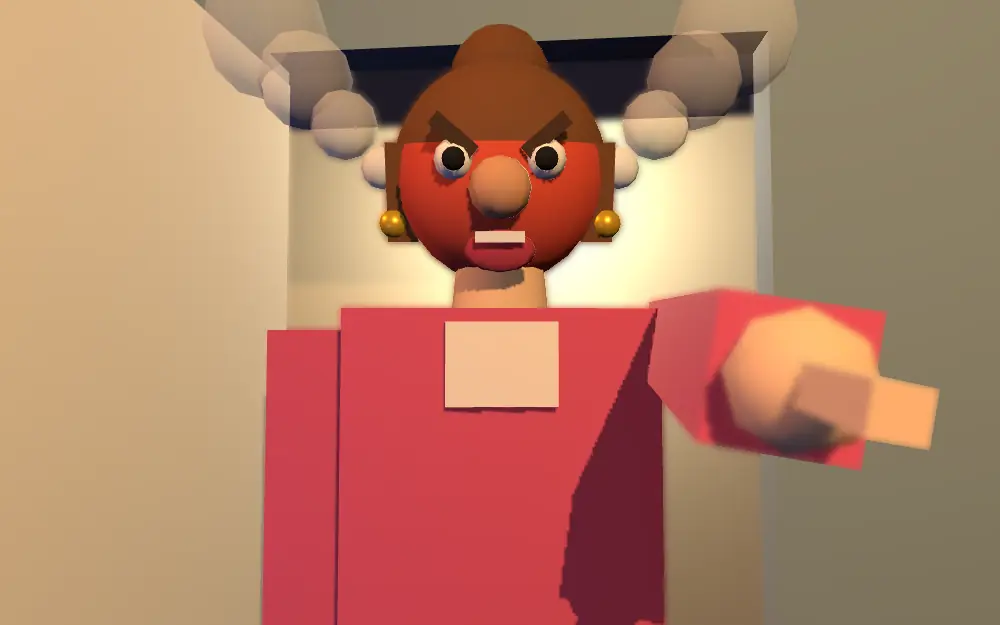
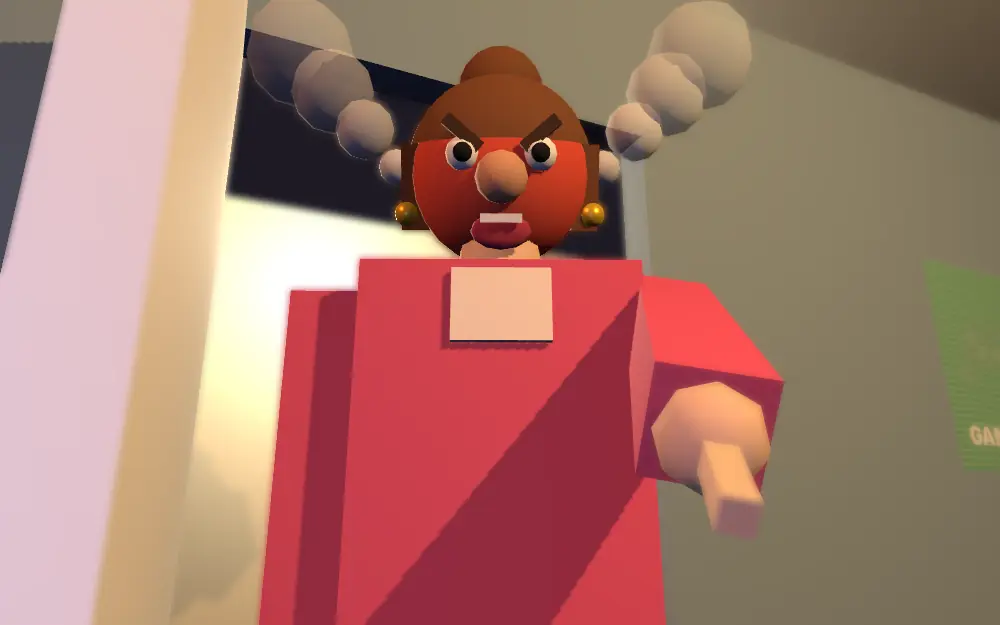
A-078 tillägg 11:35/11:45/11:50: undertextruta, utrop i bubblan, en röst per figur, din vy från datorn, ut förbi mamma, ingen dubbel dörr, mamma som ritning och poff
- undertexten: fast ruta längst ner, inga namn, visas direkt, byts ut, repliker som hör ihop står tillsammans (högst 2 rader)
- bubblor bara för korta utrop (STÄDA!), ingen text på två ställen
- rost.js: ROSTER[vem] + rostFor(); helen och goran fick egna röster; lint-roster i pre-commit; regel RÖST SAKNAS
- ElevenLabs bara för figurer där varje replik har klipp, annars talsyntes med figurens röst (inga blandade Kokoro-klipp, inget introundantag)
- 6b och 7 ur din vy från datorn, ruta 9 i tre steg (framför, förbi, hon vänder sig), dörranimationen i ruta 6 borta
- ruta 14: mamma som vit ritning i dörrhålet, fladdrar, poff, musen sitter kvar
- gamla bilden ligger kvar tills den nya är avkodad (inga svarta bilder)
- verktyg/galleri-intro.mjs: en bild var 3,5 s, kontaktark och tabell, flaggar svarta bilder

Claude-Session: https://claude.ai/code/session_014156cp9JxbGsW1A8ZsF5gD

diff --git a/spel/printa-hem/spel.js b/spel/printa-hem/spel.js
@@ -11,7 +11,8 @@ import { kalender as kalenderSvg } from './intro-bilder.js';
 import { byggMiljo } from './miljo.js';
 import { IKON, ik, portratt, rens, knapp, ruta as uiRuta, grid, sektion, detalj, resurs, panel, rad, fakta, UI_CSS } from './ui-kit.js';
 import { skapaRegelvakt } from './regelvakt.js';   // EL 29
-import * as B from './balans.js';   // alla siffror som styr progressionen
+import * as B from './balans.js';
+import { ROSTER, rostFor, saknadRost } from './rost.js';   // A-078: en röst per figur   // alla siffror som styr progressionen
 import * as PLAN from './gardplan.js';   // punkt AM: gårdens plan (förslag)
 const { STROM_INGEN, STROM_POWERBANK, FORSTA_PRINT_S, ROST_FART, PRIS_SKALA, MATTNAD, MATTNAD_GOLV, ALI_VILL_BONUS, GROSSIST, SALJ_TILLBAKA, FILAMENT_KOP, SLAPP_PER_DAG, KAP1_BELONING, TRIVSEL_MAL, RESPEKT_NIVAER, JOBB_VARV, JOBB_ANDEL, FYND_ANDEL, SMS_MELLAN, STROM_BAS, BANK_PLUS, TRAMP_PER_S, SOL_PER_S, SOLPARK_PER_S, MOTOR_STROM, BARA_SKRAP, HOTBAR, KISTA_PLATSER, STACK, RYGG_BAS, RYGG_STOR, PLATTA, LASTARM_TID, LASTARM_MAX, BAND_BAS, TRIVSEL_PER_PROCENT, TRIVSEL_MAX_BONUS } = B;
 import { logo, BRAND_CSS, malaSkylt, NAMN, FARG, KOP_SLAG } from './brand.js';
@@ -10528,31 +10529,7 @@ function familjSms() {
 
 // ---------- Röster: brev, sms och repliker läses upp på svenska ----------
 // Varje figur har sin egen röst (tonhöjd och tempo). Bästa svenska rösten på datorn väljs automatiskt.
-const ROSTER = {
-  rolf: { pitch: 0.55, rate: 0.82, kon: 'm' },     // mörk och släpig
-  kjelle: { pitch: 1.0, rate: 1.15, kon: 'm' },    // A-047: radioröst, glad och snabb
-  gunnar: { pitch: 0.5, rate: 0.7, kon: 'm' },     // A-047: säger ett ord om året
-  gunbritt: { pitch: 1.2, rate: 0.9, kon: 'k' },   // A-047: byggnadsnämnden, långsam och beklagande
-  ali: { pitch: 0.8, rate: 0.9, kon: 'm' },        // trött
-  mamma: { pitch: 1.3, rate: 1.08, kon: 'k' },     // ljus och snabb
-  bror: { pitch: 1.05, rate: 1.15, kon: 'm' },
-  chefen: { pitch: 0.6, rate: 1.2, kon: 'm' },     // A-053: Rudolf, kort och arg
-  bengt: { pitch: 0.65, rate: 0.95, kon: 'm' },    // A-058: Bengt-Åke, grov och långsam
-  pappa: { pitch: 0.7, rate: 0.95, kon: 'm' },     // platt och kort
-  du: { pitch: 1.15, rate: 1.0, kon: 'm' },
-  berattare: { pitch: 1.0, rate: 0.95, kon: 'k' },
-};
-let roster = [];
-const laddaRoster = () => { try { roster = speechSynthesis.getVoices().filter((v) => /^sv/i.test(v.lang)); } catch { roster = []; } };
-try { laddaRoster(); speechSynthesis.onvoiceschanged = laddaRoster; } catch {}
-// naturliga/premium-röster låter mycket bättre – välj dem först om datorn har dem
-const rostKvalitet = (v) => (/natural|neural|premium|enhanced|förbättrad|online/i.test(v.name) ? 10 : 0) + (v.localService ? 0 : 1);
-function valjRost(kon) {
-  if (!roster.length) return null;
-  roster.sort((a, b) => rostKvalitet(b) - rostKvalitet(a));
-  const man = /oskar|bengt|alvar|male|man\b|herr/i, kvinna = /alva|klara|hedvig|female|kvinna|google svenska/i;
-  return roster.find((v) => (kon === 'm' ? man : kvinna).test(v.name)) || roster[0];
-}
+/* A-078 tillägg 11:45: rösterna ligger i rost.js – en tabell ROSTER[vem], en röst per figur överallt */
 // pratljud: varje figur har ett eget "babbel" (som i Animal Crossing) i stället för en AI-röst
 const PRATLJUD = {
   rolf: { f: 95, typ: 'sawtooth', tempo: 0.15, spann: 0.25, glid: -0.35, vol: 0.09 },      // grumligt, släpigt mummel
@@ -10595,7 +10572,7 @@ function pratljud(vem, text) {
 if (!S.rostMig) { S.rostMig = true; if (!S.rostLage || S.rostLage === 'prat') S.rostLage = 'rost'; }
 const rostLage = () => S.rost === false ? 'av' : (S.rostLage || 'rost');
 // riktiga röster: förgenererade med en neural svensk talmodell (verktyg/roster.py), en klang per figur
-const ROST_FIGURER = ['rolf', 'ali', 'pappa', 'bror', 'chefen', 'du', 'mamma', 'berattare', 'helen', 'bengt'];
+const ROST_FIGURER = Object.keys(ROSTER);   /* A-078: samma figurer som rösttabellen i rost.js */
 let rostIndex = null, rostLjud = null;
 const rostPack = {};
 const rostKlar = fetch('roster/index.json').then((x) => x.json()).then((a) => { rostIndex = a; hamtaPack('du');
@@ -10614,7 +10591,9 @@ let elIndex = null, elHel = null, introPagar = false, introElSvar = null;
 // punkt AW: har alla mammas och dina repliker i introt ElevenLabs-klipp? Då används de i introt (resten av spelet följer AH).
 const introElOk = () => { if (introElSvar == null && elIndex) introElSvar = INTRO_TAL().filter(([v]) => v === 'mamma' || v === 'du' || v === 'berattare').every(([v, t]) => !!elIndex[`${v}-${rostNyckel(t)}`]); return !!introElSvar; };
 const EL_SAKNAS_MAX = 4;   // EA: ett fåtal nya repliker utan ElevenLabs-klipp (kreditgränsen) får läsas med den gamla rösten – resten av figuren behåller sin EL-röst
-const elHelRakna = () => { if (!elIndex || !rostIndex || elHel) return; elHel = new Set(ROST_FIGURER.filter((f) => { const k = Object.keys(rostIndex).filter((x) => x.startsWith(f + '-')); return k.length > 0 && k.filter((x) => !elIndex[x]).length <= Math.min(EL_SAKNAS_MAX, Math.floor(k.length * 0.03)); })); };
+/* A-078 tillägg 11:45: en röst per figur, hela vägen. En figur spelar ElevenLabs bara om VARJE replik den har i manuset har ett klipp – annars
+   läses alla dess repliker med talsyntesen och figurens röst i rost.js. Så låter berättaren likadant i varje ruta, i spelet och i dagboken. */
+const elHelRakna = () => { if (!elIndex || elHel) return; const per = {}; for (const [v, t] of rostManus()) { if (!/[\p{L}]/u.test(rens(t))) continue; const f = ROST_FIGURER.includes(v) ? v : 'berattare'; const r = per[f] || (per[f] = { n: 0, el: 0 }); r.n++; if (elIndex[`${f}-${rostNyckel(t)}`]) r.el++; } elHel = new Set(Object.entries(per).filter(([, r]) => r.n > 0 && r.el === r.n).map(([f]) => f)); };
 const elKlar = fetch('roster-el/index.json').then((x) => (x.ok ? x.json() : null)).then((a) => { elIndex = a; return rostKlar.then(elHelRakna); }).catch(() => {});
 // punkt AZ: ElevenLabs-klippen ligger packade per figur (roster-el/pack/, samma format som roster/) och spelas från ett redan avkodat ljud
 let elPackIndex = null;
@@ -10627,9 +10606,7 @@ function klippKalla(vem, text) {
   const ek = elKlipp(vem, text);
   if (ek && elPackIndex?.[ek]) { const [pk, fran, langd] = elPackIndex[ek]; return { id: `el:${pk}:${fran}`, hamta: () => hamtaElPack(pk), fran, langd }; }
   if (ek) return { id: 'elfil:' + ek, fil: 'roster-el/' + elIndex[ek] };
-  const kl = rostKlipp(vem, text);
-  if (kl) { const [pk, fran, langd] = kl; return { id: `ko:${pk}:${fran}`, hamta: () => hamtaPack(pk), fran, langd }; }
-  return null;
+  return null;   /* A-078 tillägg 11:45: ElevenLabs eller talsyntes med figurens röst – de gamla klippen (Kokoro) blandas inte in, de lät olika mot talsyntesen */
 }
 function avkoda(k) {
   if (avkodat.has(k.id)) return Promise.resolve(avkodat.get(k.id));
@@ -10672,7 +10649,7 @@ function spelaAvkodat(ab, vem, t0, text, o = {}) {
 function elKlipp(vem, text) {
   if (!elIndex || !elHel) return null;
   const f = ROST_FIGURER.includes(vem) ? vem : 'berattare';
-  if (!elHel.has(f) && !(introPagar && (f === 'mamma' || f === 'du' || f === 'berattare') && introElOk())) return null;   // punkt AW/BJ: introt är en egen scen – mamma, du och berättaren i ElevenLabs, eller alla gamla
+  if (!elHel.has(f)) return null;   /* A-078 tillägg 11:45: samma röst i introt som i spelet – inget undantag för introt */
   const k = `${f}-${rostNyckel(text)}`;
   return elIndex[k] ? k : null;
 }
@@ -10761,9 +10738,9 @@ function prataNu(vem, text, vikt, o = {}) {
     const ren = String(text).replace(/<[^>]+>/g, ' ').replace(/\p{Extended_Pictographic}|\uFE0F|\u200D/gu, '').replace(/\s\/(\w+)/g, '. $1').replace(/\s+/g, ' ').trim();
     if (!ren) return;
     speechSynthesis.cancel();
-    const u = new SpeechSynthesisUtterance(ren), r = ROSTER[vem] || ROSTER.berattare;
+    const u = new SpeechSynthesisUtterance(ren), r = rostFor(vem);
     u.lang = 'sv-SE'; u.pitch = r.pitch; u.rate = r.rate; u.volume = 0.9 * rostVol(vem);
-    const v = valjRost(r.kon); if (v) u.voice = v;
+    if (r.voice) u.voice = r.voice;
     speechSynthesis.speak(u);
   } catch {} }
 }
@@ -11836,10 +11813,10 @@ function spelKamera(vy) {
     cam.position.set(sk.x + fran.x * 1.25 + fran.z * 0.35, sk.y + 0.42, sk.z + fran.z * 1.25 - fran.x * 0.35); cam.lookAt(sk.x, sk.y - 0.05, sk.z);
   }
   else if (vy === 'gard') { const k = GARD_KAM; cam.position.set(...k[0]); cam.lookAt(...k[1]); cam.fov = k[2]; }   /* A-078 ruta 12: tippen syns vid sidan av skjulet */   /* A-062 v3 ruta 11: bred bild från vägen, ingen cykel */
-  else if (/^(tak|dorrhal|ratta)$/.test(vy)) {   /* A-062 v3 ruta 13: närbilder på skjulet */
+  else if (/^(tak|dorrhal|ratta|dorrhalRatta)$/.test(vy)) {   /* A-062 v3 ruta 13: närbilder på skjulet */
     const zf = SKJUL.z + SKJUL.d / 2;
     if (vy === 'tak') { cam.position.set(SKJUL.x + 0.2, 1.2, SKJUL.z + 0.4); cam.lookAt(SKJUL.x - 0.1, SKJUL.h + 4, SKJUL.z - 0.9); }   // inifrån: hålet i taket mot himlen
-    else if (vy === 'dorrhal') { cam.position.set(SKJUL.x + 0.15, 1.15, zf + 2.1); cam.lookAt(SKJUL.x, 1.0, zf); }
+    else if (vy === 'dorrhal' || vy === 'dorrhalRatta') { cam.position.set(SKJUL.x + 0.15, 1.15, zf + 2.1); cam.lookAt(SKJUL.x, 1.0, zf); }
     else { cam.position.set(SKJUL.x - 0.05, 0.38, zf + 1.25); cam.lookAt(SKJUL.x - 0.35, 0.14, zf - 0.05); }
     cam.fov = 55;
   }
@@ -11848,11 +11825,12 @@ function spelKamera(vy) {
 }
 function spelBild(vy) {
   if (spelBildCache[vy]) return spelBildCache[vy];
+  if (vy === 'mammaRitning') return (spelBildCache[vy] = mammaRitningBild());
   try {
     if (vy === 'gard') try { ritaTippHog(0, true); } catch {}   /* A-078: berget på tippen ska synas i ruta 12 */
     const cam = spelKamera(vy), r = renderer, gs = r.getSize(new THREE.Vector2()), pr = r.getPixelRatio();
-    const dold = (vy === 'gard' ? [vagCykel, malPil] : vy === 'start' ? [malPil] : /^(tak|dorrhal|ratta)$/.test(vy) ? [malPil, sangSpoke, sangSkylt, planMesh] : []).filter((o) => o?.visible);   /* närbilderna: inga spelskyltar */ dold.forEach((o) => { o.visible = false; });
-    let ratta = null; if (vy === 'ratta') {   /* A-062 v3: en råtta tittar ut ur dörrhålet */
+    const dold = (vy === 'gard' ? [vagCykel, malPil] : vy === 'start' ? [malPil] : /^(tak|dorrhal|ratta|dorrhalRatta)$/.test(vy) ? [malPil, sangSpoke, sangSkylt, planMesh] : []).filter((o) => o?.visible);   /* närbilderna: inga spelskyltar */ dold.forEach((o) => { o.visible = false; });
+    let ratta = null; if (vy === 'ratta' || vy === 'dorrhalRatta') {   /* A-062 v3: en råtta tittar ut ur dörrhålet */
       const gra = mat(0x6d6259); ratta = new THREE.Group(); const kr = new THREE.Mesh(new THREE.SphereGeometry(0.07, 10, 8), gra); kr.scale.set(1, 0.7, 1.5); kr.position.y = 0.05; ratta.add(kr);
       ratta.add(at(new THREE.Mesh(new THREE.SphereGeometry(0.045, 10, 8), gra), 0, 0.07, 0.1)); for (const x of [-0.03, 0.03]) { ratta.add(at(new THREE.Mesh(new THREE.SphereGeometry(0.022, 8, 6), mat(0x8a7d72)), x, 0.115, 0.09)); ratta.add(at(new THREE.Mesh(new THREE.SphereGeometry(0.008, 6, 4), mat(0x111111)), x * 0.6, 0.085, 0.14)); }
       ratta.position.set(SKJUL.x - 0.35, 0, SKJUL.z + SKJUL.d / 2 - 0.05); ratta.lookAt(cam.position.x, 0, cam.position.z); scen.add(ratta);
@@ -11862,6 +11840,19 @@ function spelBild(vy) {
     r.setPixelRatio(pr); r.setSize(gs.x, gs.y, false); spelBildCache[vy] = C.toDataURL('image/jpeg', 0.86);
   } catch (e) { console.warn('spelBild', e); spelBildCache[vy] = 'intro/gard.webp'; }
   return spelBildCache[vy];
+}
+/* A-078 tillägg 11:50 (ruta 14): mamma som vit ritning i dörrhålet – samma vinkel som dörrhålet med musen, genomskinlig bakgrund */
+function mammaRitningBild() {
+  try {
+    const cam = spelKamera('dorrhal'), zf = SKJUL.z + SKJUL.d / 2, f = introFigur('mamma');
+    poseFigur(f, { x: SKJUL.x + 0.12, z: zf - 0.15, motKamera: [cam.position.x, 0, cam.position.z], pekaMot: [cam.position.x, 1.0, cam.position.z], humor: 'arg1' }); f.updateMatrixWorld(true);
+    const rit = byggRitning([f]), sc = new THREE.Scene(); sc.add(rit);
+    const r = renderer, gs = r.getSize(new THREE.Vector2()), pr = r.getPixelRatio(), cc = r.getClearColor(new THREE.Color()), ca = r.getClearAlpha();
+    r.setPixelRatio(1); r.setSize(1280, 800, false); r.setClearColor(0x000000, 0); r.render(sc, cam);
+    const C = document.createElement('canvas'); C.width = 1280; C.height = 800; C.getContext('2d').drawImage(r.domElement, 0, 0, 1280, 800);
+    r.setClearColor(cc, ca); r.setPixelRatio(pr); r.setSize(gs.x, gs.y, false); rit.traverse((o) => o.geometry?.dispose?.());
+    return C.toDataURL('image/png');
+  } catch (e) { console.warn('mammaRitning', e); return ''; }
 }
 function kritaSvg(vy) {
   const cam = spelKamera(/^skjul/.test(vy) ? 'start' : 'skrivare'), v = new THREE.Vector3();
@@ -12118,21 +12109,22 @@ const IDE3 = {   /* ruta 12: idéskissen i vita konturer, i ordningen skräp →
   jacuzzi: '<ellipse cx="610" cy="490" rx="70" ry="28"/><path d="M560 470 Q575 450 590 470 M620 470 Q635 450 650 470"/>',
   hus: '<rect x="760" y="440" width="140" height="90"/><path d="M745 445 L830 390 L915 445"/><rect x="815" y="480" width="30" height="50"/>',
 };
+const UTROP_MAX = 12, UNDERTEXT_MAX = 84;   /* A-078 tillägg 11:45: utrop i bubblan · högst 2 rader undertext (ca 42 tecken per rad) */
 const INTRO3 = [
   { tid: 3500, ljud: 'spel', lager: [IB3('v3rum1')], tal: [['berattare', 'Ditt rum.'], ['berattare', 'Ungefär som vanligt.']] },
   { tid: 3000, lager: [IB3('v4dag2', { id: 'dag' }), KAL3('MÅNDAG')], tal: [['mamma', 'Snälla du, kan du inte städa ditt rum?', { b: 'v4dag2' }]] },   /* A-078: introt v4 – mamma snäll */
   { tid: 1400, ljud: 'riv', lager: [IB3('v4dag3', { id: 'dag' }), KAL3('TISDAG', 'MÅNDAG')], tal: [['berattare', 'Hon sa det igen.'], ['mamma', 'STÄDA!', { b: 'v4dag3', cls: 'rop1' }]] },   // över din axel, händerna i sidan (arg1)
   { tid: 1400, ljud: 'riv', lager: [IB3('v4dag4', { id: 'dag' }), KAL3('ONSDAG', 'TISDAG')], tal: [['berattare', 'Och igen.'], ['mamma', 'STÄDA!!', { b: 'v4dag4', cls: 'rop2' }]] },   // lågt från golvet, hon pekar på högarna (arg2)
   { tid: 1400, ljud: 'riv', lager: [IB3('v4dag5', { id: 'dag' }), KAL3('TORSDAG', 'ONSDAG')], tal: [['berattare', 'Och igen.'], ['mamma', 'STÄDA!!!', { b: 'v4dag5', cls: 'rop3' }]] },   // från sidan, armen rakt upp (arg2)
-  { tid: 3200, ljud: 'dorr', lager: [IB3('v4dag6a', { id: 'dag', cls: 'glidin' }), IB3('v4dorr6', { cls: 'small' }), IB3('v4dag6b', { r: 0, cls: 'glidsen' }), KAL3('FREDAG', 'TORSDAG')], tal: [['mamma', 'Det ser ut som en SOPTIPP här inne!', { b: 'v4dag6b', fore: 1700 }]] },   // dörren smäller upp, kameran glider in mot henne (rasande)
+  { tid: 3200, ljud: 'dorr', lager: [IB3('v4dag6a', { id: 'dag', cls: 'glidin' }), IB3('v4dag6b', { r: 0, cls: 'glidsen' }), KAL3('FREDAG', 'TORSDAG')], tal: [['mamma', 'Det ser ut som en SOPTIPP här inne!', { b: 'v4dag6b', fore: 1700 }]] },   // dörren smäller upp, kameran glider in mot henne (rasande)
   { tid: 3000, tyst: 1000, lager: [IB3('v4kort7'), { id: 'vinjett', vinjett: true }], tal: [['mamma', 'Du kan lika gärna BO på en soptipp!', { b: 'v4kort7', cls: 'rop1', vanster: true }]] },   // rakt in i ansiktet, fingret mot kameran (rasande+rök)
   { tid: 4000, ljud: 'gitarr', lager: [IB3('v4kort8')], tal: [['du', 'Okej.'], ['du', 'Då gör jag väl det.']] },   // du reser dig vid datorn, mamma pekar ut genom dörren
-  { tid: 2600, lager: [IB3('v4kort9', { cls: 'folj' })], tal: [] },   // A-078 ruta 9: ut förbi mamma, kameran följer med dig ut (mamma förvånad)
+  { tid: 3200, lager: [IB3('v4kort9a', { cls: 'folj' }), IB3('v4kort9b', { cls: 'folj sen1' }), IB3('v4kort9', { cls: 'folj sen2' })], tal: [] },   /* A-078 tillägg 11:50: du går förbi henne i bild – framför henne, förbi, och hon vänder sig */   // A-078 ruta 9: ut förbi mamma, kameran följer med dig ut (mamma förvånad)
   { tid: 4000, ljud: 'band', lager: [IB3('v3pack9')], tal: [['du', 'Jag packar ryggan med sånt som kan vara bra att ha.'], ['du', 'Och surrar fast brorsans gamla 3D-skrivare på cykeln.']] },
   { tid: 5000, musik: true, lager: [{ id: 'vagloop', loop: 'intro/vag.webp' }, { id: 'cyklist', sprite: 'intro/cyklist-tramp.webp', n: 4 }], tal: [['berattare', 'Förbi skolan.'], ['berattare', 'Förbi affären.'], ['berattare', 'Förbi där husen tar slut.']] },
   { tid: 3500, ljud: 'masar', lager: [{ id: 'spelgard', spel: 'gard' }], tal: [['berattare', 'Vid soptippen står ett gammalt skjul.'], ['berattare', 'Och en gård full av skräp.']] },
   { tid: 7000, lager: [{ id: 'tavla', tavla: true }], tal: [['berattare', 'Skräp är plast.', { rita: [['skrap', 0]] }], ['berattare', 'En kvarn gör det till filament.', { rita: [['pil1', 0], ['kvarn', 200], ['fraga', 700], ['pil2', 1200], ['filament', 1300]] }], ['berattare', 'Och med filament kan man printa… allt.', { rita: [['pil3', 0], ['skrivare', 200], ['sang', 1300], ['tak', 1750], ['jacuzzi', 2200], ['hus', 2650]] }], ['du', 'Jag behöver bara komma på hur.']] },
-  { tid: 6000, lager: [{ id: 'n0', spel: 'tak', r: 0 }, { id: 'n1', spel: 'dorrhal', r: 1 }, { id: 'natt', natt: true, r: 1 }, { id: 'n2', spel: 'ratta', r: 2 }, { id: 'n3', spel: 'start', r: 3, cls: 'zoomut' }, { id: 'k3', krita: 'skjul3', r: 3 }],
+  { tid: 6000, lager: [{ id: 'n0', spel: 'tak', r: 0 }, { id: 'n1', spel: 'dorrhal', r: 1 }, { id: 'natt', natt: true, r: 1 }, { id: 'n2', spel: 'dorrhalRatta', r: 2 }, { id: 'm2', spel: 'mammaRitning', r: 2, cls: 'poff' }, { id: 'n3', spel: 'start', r: 3, cls: 'zoomut' }, { id: 'k3', krita: 'skjul3', r: 3 }],
     tal: [['berattare', 'Inget tak.'], ['berattare', 'Ingen dörr.'], ['berattare', 'Ingen mamma som tjatar.', { pip: true }], ['berattare', 'Tänk om det här kunde bli ett riktigt hem?', { fore: 3200 }]], slut: true },
 ];
 const introCss3 = document.createElement('style');
@@ -12142,6 +12134,10 @@ introCss3.textContent = `
 @keyframes phGlidIn{to{transform:scale(1.5)}}
 .ph-il.glidsen{opacity:0;animation:phGlidSen .7s 1.1s ease-in forwards}
 @keyframes phGlidSen{to{opacity:1}}
+.ph-il.sen1{opacity:0;animation:phFolj 2.6s ease-in-out forwards,phGlidSen .45s 1.0s ease-in forwards!important}.ph-il.sen2{opacity:0;animation:phFolj 2.6s ease-in-out forwards,phGlidSen .45s 2.0s ease-in forwards!important}
+.ph-il.poff{animation:phPoffFladder 1.5s steps(1) forwards,phPoff .35s 1.5s ease-in forwards}
+@keyframes phPoffFladder{0%{opacity:.95}15%{opacity:.55}25%{opacity:1}55%{opacity:.6}65%{opacity:1}}
+@keyframes phPoff{to{opacity:0;transform:scale(1.25);filter:blur(6px)}}
 .ph-il.folj{transform-origin:85% 40%;animation:phFolj 2.6s ease-in-out forwards}
 @keyframes phFolj{from{transform:scale(1.08) translateX(3%)}to{transform:scale(1.18) translateX(-4%)}}
 .ph-bub{position:absolute;z-index:6;background:#fff;color:#1d1a24;font:800 clamp(14px,2.1vw,22px)/1.2 "Comic Sans MS","Chalkboard SE",system-ui;padding:.45em .8em;border-radius:16px;box-shadow:0 4px 0 rgba(0,0,0,.25);max-width:36%;animation:phBub .25s ease-out}
@@ -12161,7 +12157,9 @@ introCss3.textContent = `
 @keyframes phLjus{to{opacity:.8}}
 .ph-natt{position:absolute;inset:0}
 .ph-vinjett{background:radial-gradient(circle at 50% 38%,transparent 30%,rgba(122,0,0,.55) 80%)}
-.ph-intro3 .ph-intro-ord{min-height:5.2em}
+.ph-intro3 .ph-intro-ord{position:fixed;left:50%;bottom:5vh;transform:translateX(-50%);z-index:20;width:min(880px,86vw);min-height:0;max-height:3.1em;overflow:hidden;margin:0;padding:.35em .9em;background:rgba(0,0,0,.66);border-radius:10px;color:#fff;font:700 clamp(20px,2.5vw,30px)/1.35 system-ui;text-align:center;text-shadow:0 2px 3px rgba(0,0,0,.6)}
+.ph-intro3 .ph-intro-ord.tom{visibility:hidden}
+.ph-intro3 .ph-intro-ord .ph-ut-rad{opacity:1}
 .ph-intro3 .ph-intro-rad .ph-vem{font:800 11px system-ui;letter-spacing:.1em;opacity:.6;margin-right:6px;text-transform:uppercase}
 .ph-dag1{position:fixed;inset:0;z-index:9500;display:grid;place-items:center;background:#2b1d16;opacity:0;transition:opacity .6s}
 .ph-dag1.syns{opacity:1}
@@ -12182,6 +12180,7 @@ function introLjud3(typ) {
     else if (typ === 'masar') { ton(1500, 0.25, 0.04, 'sine'); ton(1250, 0.3, 0.04, 'sine', 0.35); ton(1600, 0.2, 0.03, 'sine', 1.1); }
     else if (typ === 'krita') { ton(2400, 0.14, 0.02, 'sawtooth'); }
     else if (typ === 'pling') { ton(880, 0.25, 0.09, 'sine'); }
+    else if (typ === 'poff') { ton(520, 0.06, 0.08, 'square'); ton(180, 0.18, 0.1, 'sawtooth', 0.04); }
     else if (typ === 'pip') { ton(1700, 0.1, 0.06, 'square'); ton(1950, 0.09, 0.05, 'square', 0.14); }
     else if (typ === 'penna') { for (let i = 0; i < 7; i++) ton(2600 + (i % 3) * 300, 0.08, 0.015, 'sawtooth', i * 0.12); }
   } catch {}
@@ -12224,11 +12223,14 @@ function visaIntro3(klar, o = {}) {
   const spelaRuta = async (p, k) => {
     scenEl.querySelectorAll('.ph-bub').forEach((b) => b.remove());
     const nya = new Set(p.lager.filter((l) => l.r == null).map((l) => l.id + '|' + (l.src || l.kal || l.spel || l.loop || '')));
-    for (const [id, e] of pa) { if (!nya.has(e.dataset.nyckel)) { tona(e); pa.delete(id); } }
-    for (const l of p.lager.filter((x) => x.r == null)) { const n = l.id + '|' + (l.src || l.kal || l.spel || l.loop || ''); if ([...pa.values()].some((e) => e.dataset.nyckel === n)) continue; const e = visaLager(l); e.dataset.nyckel = n; }
+    const gamla = [...pa].filter(([, e]) => !nya.has(e.dataset.nyckel)); gamla.forEach(([id]) => pa.delete(id));
+    const nyEl = []; for (const l of p.lager.filter((x) => x.r == null)) { const n = l.id + '|' + (l.src || l.kal || l.spel || l.loop || ''); if ([...pa.values()].some((e) => e.dataset.nyckel === n)) continue; const e = visaLager(l); e.dataset.nyckel = n; nyEl.push(e); }
+    /* A-078 tillägg 11:50: inga svarta bilder – den gamla bilden ligger kvar tills den nya är avkodad, sedan tonar den bort */
+    { const bilder = nyEl.flatMap((e) => (e.tagName === 'IMG' ? [e] : [...e.querySelectorAll('img')])); await Promise.race([Promise.all(bilder.map((b) => b.decode?.().catch(() => {}))), new Promise((ok) => setTimeout(ok, 1500))]); }
+    gamla.forEach(([, e]) => setTimeout(() => tona(e), 350));
     el.querySelector('.ph-intro-kort').classList.toggle('skak', p.ljud === 'dorr');
     logg('visas', p.lager.map((l) => l.id + '|' + (l.src || l.spel || l.kal || '')).join(' '));
-    textEl.innerHTML = '';
+    textEl.innerHTML = ''; textEl.classList.add('tom');
     if (p.ljud) introLjud3(p.ljud); if (p.musik) introMusik.start();
     const t0 = performance.now();
     await vanta(500, k);
@@ -12239,9 +12241,16 @@ function visaIntro3(klar, o = {}) {
       if (rl.length) { if (sistaR) sistaR.forEach(tona); sistaR = rl.map((l) => { const e = visaLager(l); if (/zoomut/.test(l.cls || '')) zoomut(e); return e; }); logg('ritning', j); }
       if (o.fore) await vanta(o.fore, k);
       if (o.rita) for (const [del, ms] of o.rita) { const t = setTimeout(() => { scenEl.querySelector(`[data-del="${del}"]`)?.classList.add('rita'); introLjud3(/sang|tak|jacuzzi|hus/.test(del) ? 'pling' : 'krita'); }, ms); timers.add(t); }
-      if (o.pip) setTimeout(() => introLjud3('pip'), 300);
-      if (vem === 'mamma' && o.b) bubbla(p, text, o);
-      else { const d = document.createElement('div'); d.className = 'ph-intro-text ph-intro-rad'; d.innerHTML = (vem === 'du' ? '<span class="ph-vem">Du</span>' : '') + rens(text); textEl.appendChild(d); requestAnimationFrame(() => d.classList.add('syns')); }
+      if (o.pip) { setTimeout(() => introLjud3('pip'), 300); setTimeout(() => introLjud3('poff'), 1500 + 300); }   /* A-078 tillägg 11:50: mamma-ritningen försvinner med ett poff, musen sitter kvar */
+      /* A-078 tillägg 11:35/11:45: korta utrop (STÄDA!) bara i bubblan, allt annat bara i undertextrutan. Inga namn.
+         Rutan står still längst ner, texten visas direkt och byts ut. Repliker som hör ihop (samma röst, direkt efter varandra) står tillsammans, högst 2 rader. */
+      if (o.b && rens(text).length <= UTROP_MAX) bubbla(p, text, o);
+      else {
+        const fore = j > 0 ? p.tal[j - 1] : null, ihop = fore && fore[0] === vem && !(fore[2]?.b && rens(fore[1]).length <= UTROP_MAX) && !o.fore && (textEl.textContent.length + rens(text).length + 1) <= UNDERTEXT_MAX;
+        if (!ihop) textEl.innerHTML = '';
+        const d = document.createElement('span'); d.className = 'ph-ut-rad'; d.textContent = (ihop ? ' ' : '') + rens(text); textEl.appendChild(d);
+        textEl.classList.toggle('tom', !textEl.textContent.trim());
+      }
       logg('rad', j);
       await sag(vem, text, k); await vanta(300, k);
     }
@@ -14529,9 +14538,11 @@ const VYER4 = {
   v4dag4: {"kam":[[1.55,0.35,0.55],[2.25,1.5,-0.4]],"fov":60,"stok":0.6,"du":{"x":1.0,"z":-0.95,"rot":3.491592653589793,"sitt":true,"lookAt":[2.3,1.5,-0.4],"humor":"likgiltig"},"mamma":{"x":2.25,"z":-0.4,"motKamera":[1.0,0,0.5],"humor":"arg2","pekaMot":[1.2,0.0,0.7],"lookAt":[1.0,1.15,-0.95]},"fokus":1.6},   // 4-onsdag
   v4dag5: {"kam":[[0.95,1.35,0.25],[2.15,1.65,-0.45]],"fov":64,"stok":0.85,"du":{"x":1.0,"z":-0.95,"rot":3.491592653589793,"sitt":true,"lookAt":[2.3,1.5,-0.4],"humor":"likgiltig"},"mamma":{"x":2.15,"z":-0.45,"motKamera":[1.0,0,-0.95],"humor":"arg2","armarUpp":true,"lookAt":[1.0,1.15,-0.95]},"fokus":1.4},   // 5-torsdag
   v4dag6a: {"kam":[[0.0,1.55,1.3],[2.2,1.4,-0.4]],"fov":56,"stok":1,"du":{"x":1.0,"z":-0.95,"rot":3.491592653589793,"sitt":true,"lookAt":[2.3,1.5,-0.4],"humor":"likgiltig"},"mamma":{"x":2.2,"z":-0.4,"motKamera":[1.0,0,-0.95],"humor":"rasande","pekaMot":[1.0,1.15,-0.95],"lookAt":[1.0,1.15,-0.95]},"fokus":2.6},   // 6a-fredag
-  v4dag6b: {"kam":[[1.25,1.55,0.35],[2.2,1.45,-0.4]],"fov":56,"stok":1,"du":{"x":1.0,"z":-0.95,"rot":3.491592653589793,"sitt":true,"lookAt":[2.3,1.5,-0.4],"humor":"likgiltig"},"mamma":{"x":2.2,"z":-0.4,"motKamera":[1.0,0,-0.95],"humor":"rasande","pekaMot":[1.0,1.15,-0.95],"lookAt":[1.0,1.15,-0.95]},"fokus":1.3},   // 6b-fredag-nara
-  v4kort7: {"kam":[[1.2,1.5,-0.3],[2.25,1.55,-0.4]],"fov":52,"stok":1,"lampa":9,"mamma":{"x":2.25,"z":-0.4,"motKamera":[1.55,0,-0.32],"humor":"rasande+rok","pekaMot":[1.2,1.45,-0.15],"lookAt":[1.2,1.5,-0.3]},"fokus":1.0,"nara":true},   // 7-argast
+  v4dag6b: {"kam":[[1.15,1.15,-0.9],[2.2,1.48,-0.4]],"fov":56,"stok":1,"mamma":{"x":2.2,"z":-0.4,"motKamera":[1.0,0,-0.95],"humor":"rasande","pekaMot":[1.05,0.85,-0.9],"lookAt":[1.0,1.15,-0.95]},"fokus":1.3},   // 6b-fredag-nara · A-078 tillägg 11:50: din vy från datorn, hon pekar på dig
+  v4kort7: {"kam":[[1.2,1.15,-0.88],[2.25,1.5,-0.4]],"fov":50,"stok":1,"lampa":9,"mamma":{"x":2.25,"z":-0.4,"motKamera":[1.0,0,-0.95],"humor":"rasande+rok","pekaMot":[1.05,0.8,-0.9],"lookAt":[1.0,1.15,-0.95]},"fokus":1.1,"nara":true},   // 7-argast · A-078 tillägg 11:50: din vy från datorn, fingret mot dig
   v4kort8: {"kam":[[-0.9,1.25,-0.55],[1.6,1.05,-0.6]],"fov":58,"stok":1,"du":{"x":1.0,"z":-0.95,"motKamera":[2.05,0,0.45],"lookAt":[2.05,1.55,0.45],"humor":"likgiltig"},"mamma":{"x":2.05,"z":0.45,"motKamera":[0.4,0,-0.9],"humor":"rasande","pekaVanster":[3.9,1.4,-0.45],"lookAt":[1.0,1.45,-0.95]},"fokus":2.6,"stol":[1.75,-1.5,-0.6]},   // 8-reser-sig
+  v4kort9a: {"kam":[[4.5,1.55,-0.95],[2.5,1.4,-0.35]],"fov":58,"stok":1,"du":{"x":1.95,"z":-0.55,"motKamera":[3.5,0,-1.2],"steg":true,"humor":"likgiltig"},"mamma":{"x":2.45,"z":0.0,"motKamera":[1.95,0,-0.55],"humor":"rasande","lookAt":[1.95,1.5,-0.55]},"fokus":2.2},   // A-078 tillägg 11:50: du på väg ut, mamma framför dig
+  v4kort9b: {"kam":[[4.5,1.55,-0.95],[2.5,1.4,-0.35]],"fov":58,"stok":1,"du":{"x":2.8,"z":-0.8,"motKamera":[4.5,0,-1.3],"steg":true,"humor":"likgiltig"},"mamma":{"x":2.45,"z":0.0,"motKamera":[2.8,0,-0.8],"humor":"forvanad","lookAt":[2.8,1.5,-0.8]},"fokus":2.0},   // förbi henne
   v4kort9: {"kam":[[4.5,1.55,-0.95],[2.5,1.4,-0.35]],"fov":58,"stok":1,"du":{"x":3.5,"z":-1.3,"motKamera":[5.5,0,-1.5],"steg":true,"humor":"likgiltig"},"mamma":{"x":2.45,"z":0.0,"motKamera":[3.55,0,-1.45],"chock":true,"lookAt":[3.55,1.5,-1.45],"humor":"forvanad"},"fokus":1.9},   // 9-ut-forbi
 };
 /* A-078: rendera en vy ur VYER4 i intro-rummet (samma steg som planeringschattens krok) */
@@ -15878,6 +15889,7 @@ if (ui) {
     if (!ui.igang) return []; const T = synligaTexter(); const ut = [];
     for (const [re, sak, har] of SAKNAD_SAK) if (!har()) for (const [v, t] of T) if (re.test(t) && v !== 'målrutan' && v !== 'NU-rutan') ut.push(`${v}: "${t.slice(0, 50)}" nämner ${sak}`);
     return ut.slice(0, 3); }, { enGang: true });
+  regelvakt.regel('RÖST SAKNAS', () => [...saknadRost].map((v) => `${v} pratar utan egen röst i rost.js`), { enGang: true });   /* A-078 tillägg 11:45 */
   regelvakt.regel('MENY UTAN VÄG', () => { if (!oppenAtgard) return []; if (!menyOppen()) { oppenAtgard = null; return []; } const svar = kanNu(oppenAtgard.atgard, oppenAtgard); return svar.ja ? [] : [`${oppenAtgard.atgard}-menyn är öppen fast ${svar.skal.toLowerCase()}`]; });   /* A-076 tillägg 11:35 */
   regelvakt.regel('MÅL UTAN LEDTRÅD', () => { if (!ui.igang) return []; const st = STEG[S.steg]; return st && !st.sov && !ledtradFor(st) ? [`"${rens(stegText(st) || '').slice(0, 60)}" har ingen ledtråd`] : []; }, { enGang: true });   /* A-083 */
   regelvakt.regel('MÅL OMÖJLIGT', () => { if (!ui.igang) return []; const a = nastaAtgard(malRaw); return a && a[0] === 'las' ? [`"${rens(String(malRaw)).slice(0, 60)}" – ${a[1]}`] : []; });

diff --git a/spel/printa-hem/rost.js b/spel/printa-hem/rost.js
@@ -1,0 +1,41 @@
+// =============================================================
+//  Soptippsvägen 1 – rösterna (A-078 tillägg 11:45)
+//  En tabell, en röst per figur, överallt: introt, spelet och dagboken.
+//  Där ett ElevenLabs-klipp finns spelas det (rostKlipp i spel.js); annars talsyntes med figurens röst härifrån.
+//  Ingen replik väljer röst själv – lint-roster.mjs kollar att röst bara sätts här och att alla figurer finns i tabellen.
+// =============================================================
+export const ROSTER = {
+  berattare: { pitch: 1.0, rate: 0.95, kon: 'k' },   // samma i varje ruta och i dagboken
+  du: { pitch: 1.15, rate: 1.0, kon: 'm' },
+  mamma: { pitch: 1.3, rate: 1.08, kon: 'k' },       // ljus och snabb
+  pappa: { pitch: 0.7, rate: 0.95, kon: 'm' },       // platt och kort
+  bror: { pitch: 1.05, rate: 1.15, kon: 'm' },
+  ali: { pitch: 0.8, rate: 0.9, kon: 'm' },          // trött
+  rolf: { pitch: 0.55, rate: 0.82, kon: 'm' },       // mörk och släpig
+  helen: { pitch: 1.12, rate: 0.98, kon: 'k' },      // lugn
+  goran: { pitch: 0.75, rate: 0.88, kon: 'm' },      // guldletaren
+  bengt: { pitch: 0.65, rate: 0.95, kon: 'm' },      // A-058: Bengt-Åke, grov och långsam
+  chefen: { pitch: 0.6, rate: 1.2, kon: 'm' },       // A-053: Rudolf, kort och arg
+  kjelle: { pitch: 1.0, rate: 1.15, kon: 'm' },      // A-047: radioröst, glad och snabb
+  gunnar: { pitch: 0.5, rate: 0.7, kon: 'm' },       // A-047: säger ett ord om året
+  gunbritt: { pitch: 1.2, rate: 0.9, kon: 'k' },     // A-047: byggnadsnämnden, långsam och beklagande
+};
+let roster = [];
+const laddaRoster = () => { try { roster = speechSynthesis.getVoices().filter((v) => /^sv/i.test(v.lang)); } catch { roster = []; } };
+try { laddaRoster(); speechSynthesis.onvoiceschanged = laddaRoster; } catch {}
+// naturliga/premium-röster låter mycket bättre – välj dem först om datorn har dem
+const rostKvalitet = (v) => (/natural|neural|premium|enhanced|förbättrad|online/i.test(v.name) ? 10 : 0) + (v.localService ? 0 : 1);
+const valdRost = {};   // en gång vald röst per kön ligger kvar hela spelet – berättaren byter aldrig röst mitt i
+function valjRost(kon) {
+  if (valdRost[kon] && roster.includes(valdRost[kon])) return valdRost[kon];
+  if (!roster.length) return null;
+  const L = [...roster].sort((a, b) => rostKvalitet(b) - rostKvalitet(a) || a.name.localeCompare(b.name));
+  const man = /oskar|bengt|alvar|male|man\b|herr/i, kvinna = /alva|klara|hedvig|female|kvinna|google svenska/i;
+  return (valdRost[kon] = L.find((v) => (kon === 'm' ? man : kvinna).test(v.name)) || L[0]);
+}
+export const saknadRost = new Set();   // figurer som pratade utan egen rad i tabellen (regelvakten läser den)
+export function rostFor(vem) {
+  const r = ROSTER[vem]; if (!r) saknadRost.add(String(vem));
+  const x = r || ROSTER.berattare;
+  return { pitch: x.pitch, rate: x.rate, kon: x.kon, voice: valjRost(x.kon) };
+}
